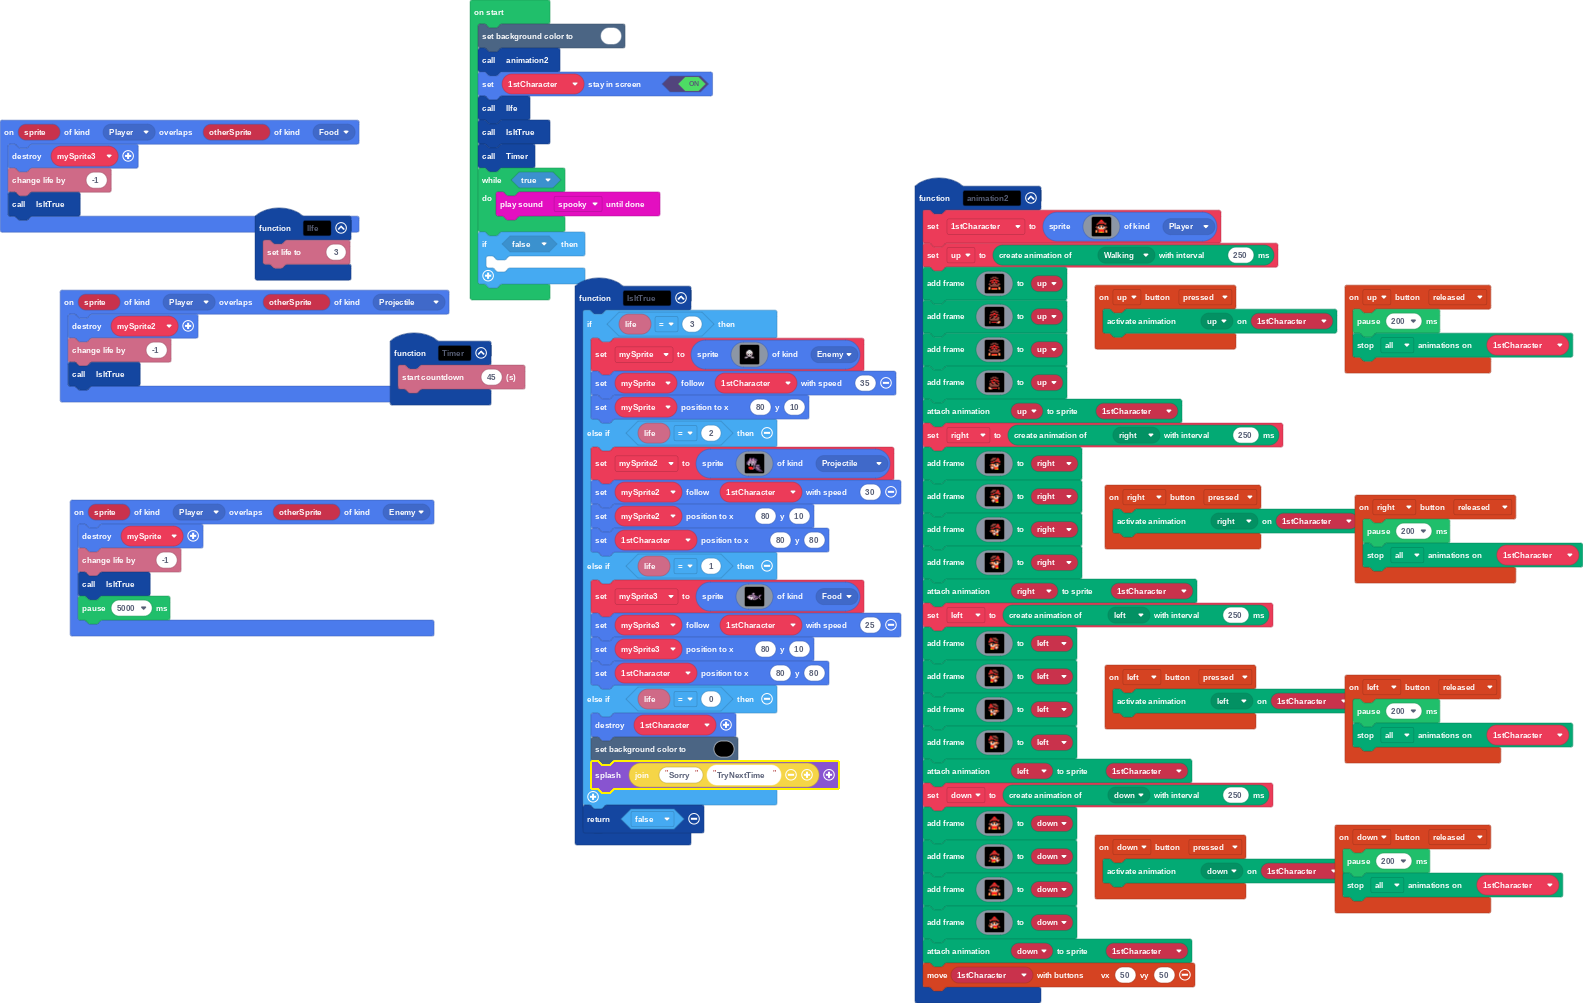
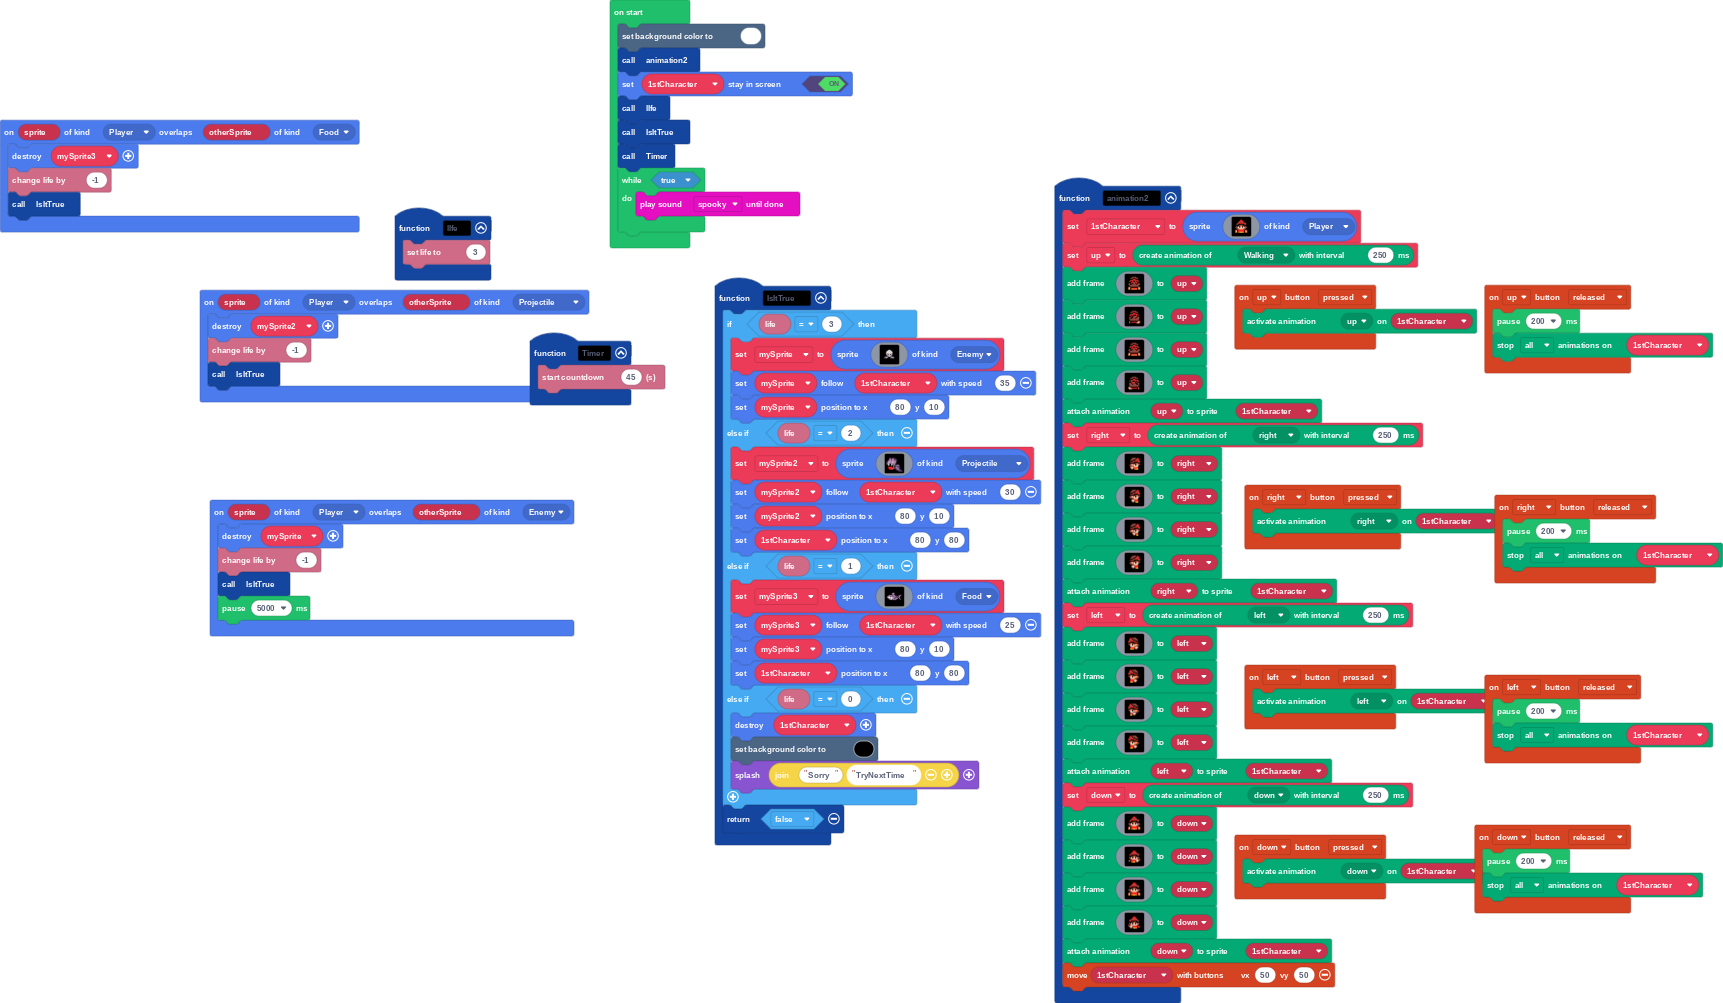
Update main.blocks, main.ts

diff --git a/main.ts b/main.ts
@@ -472,6 +472,3 @@ Timer()
 while (true) {
     music.spooky.playUntilDone()
 }
-if (false) {
-	
-}
